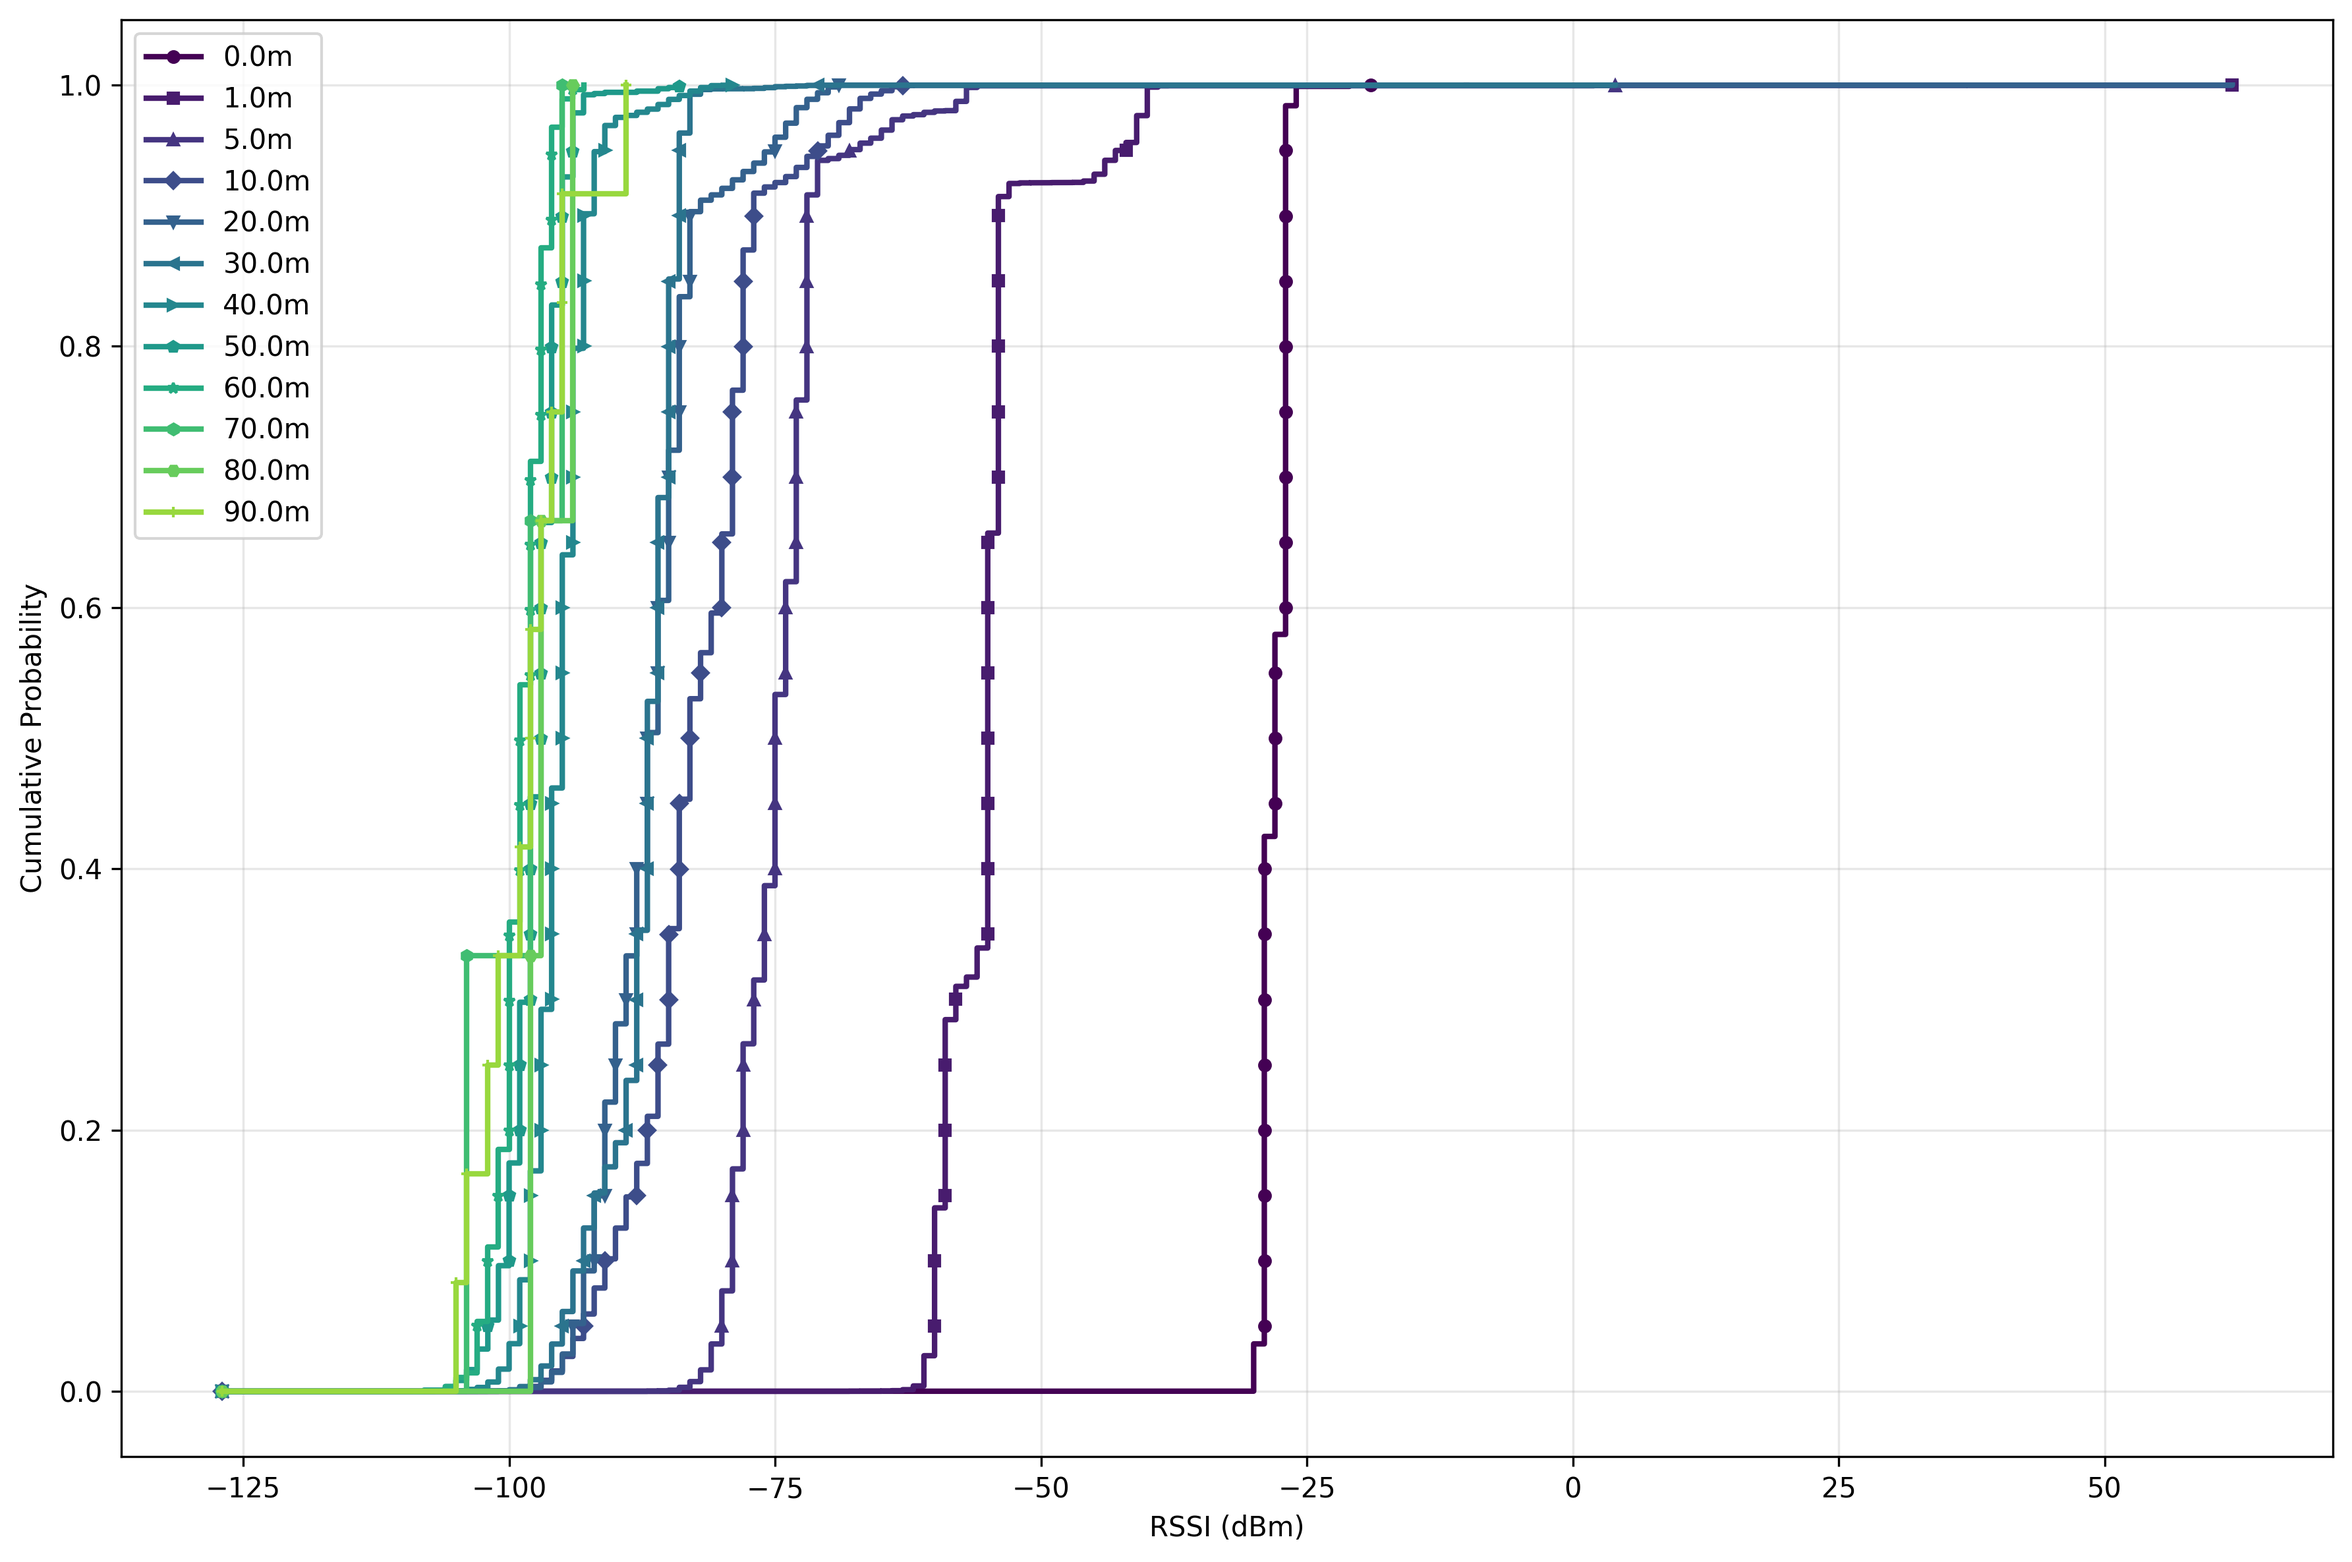
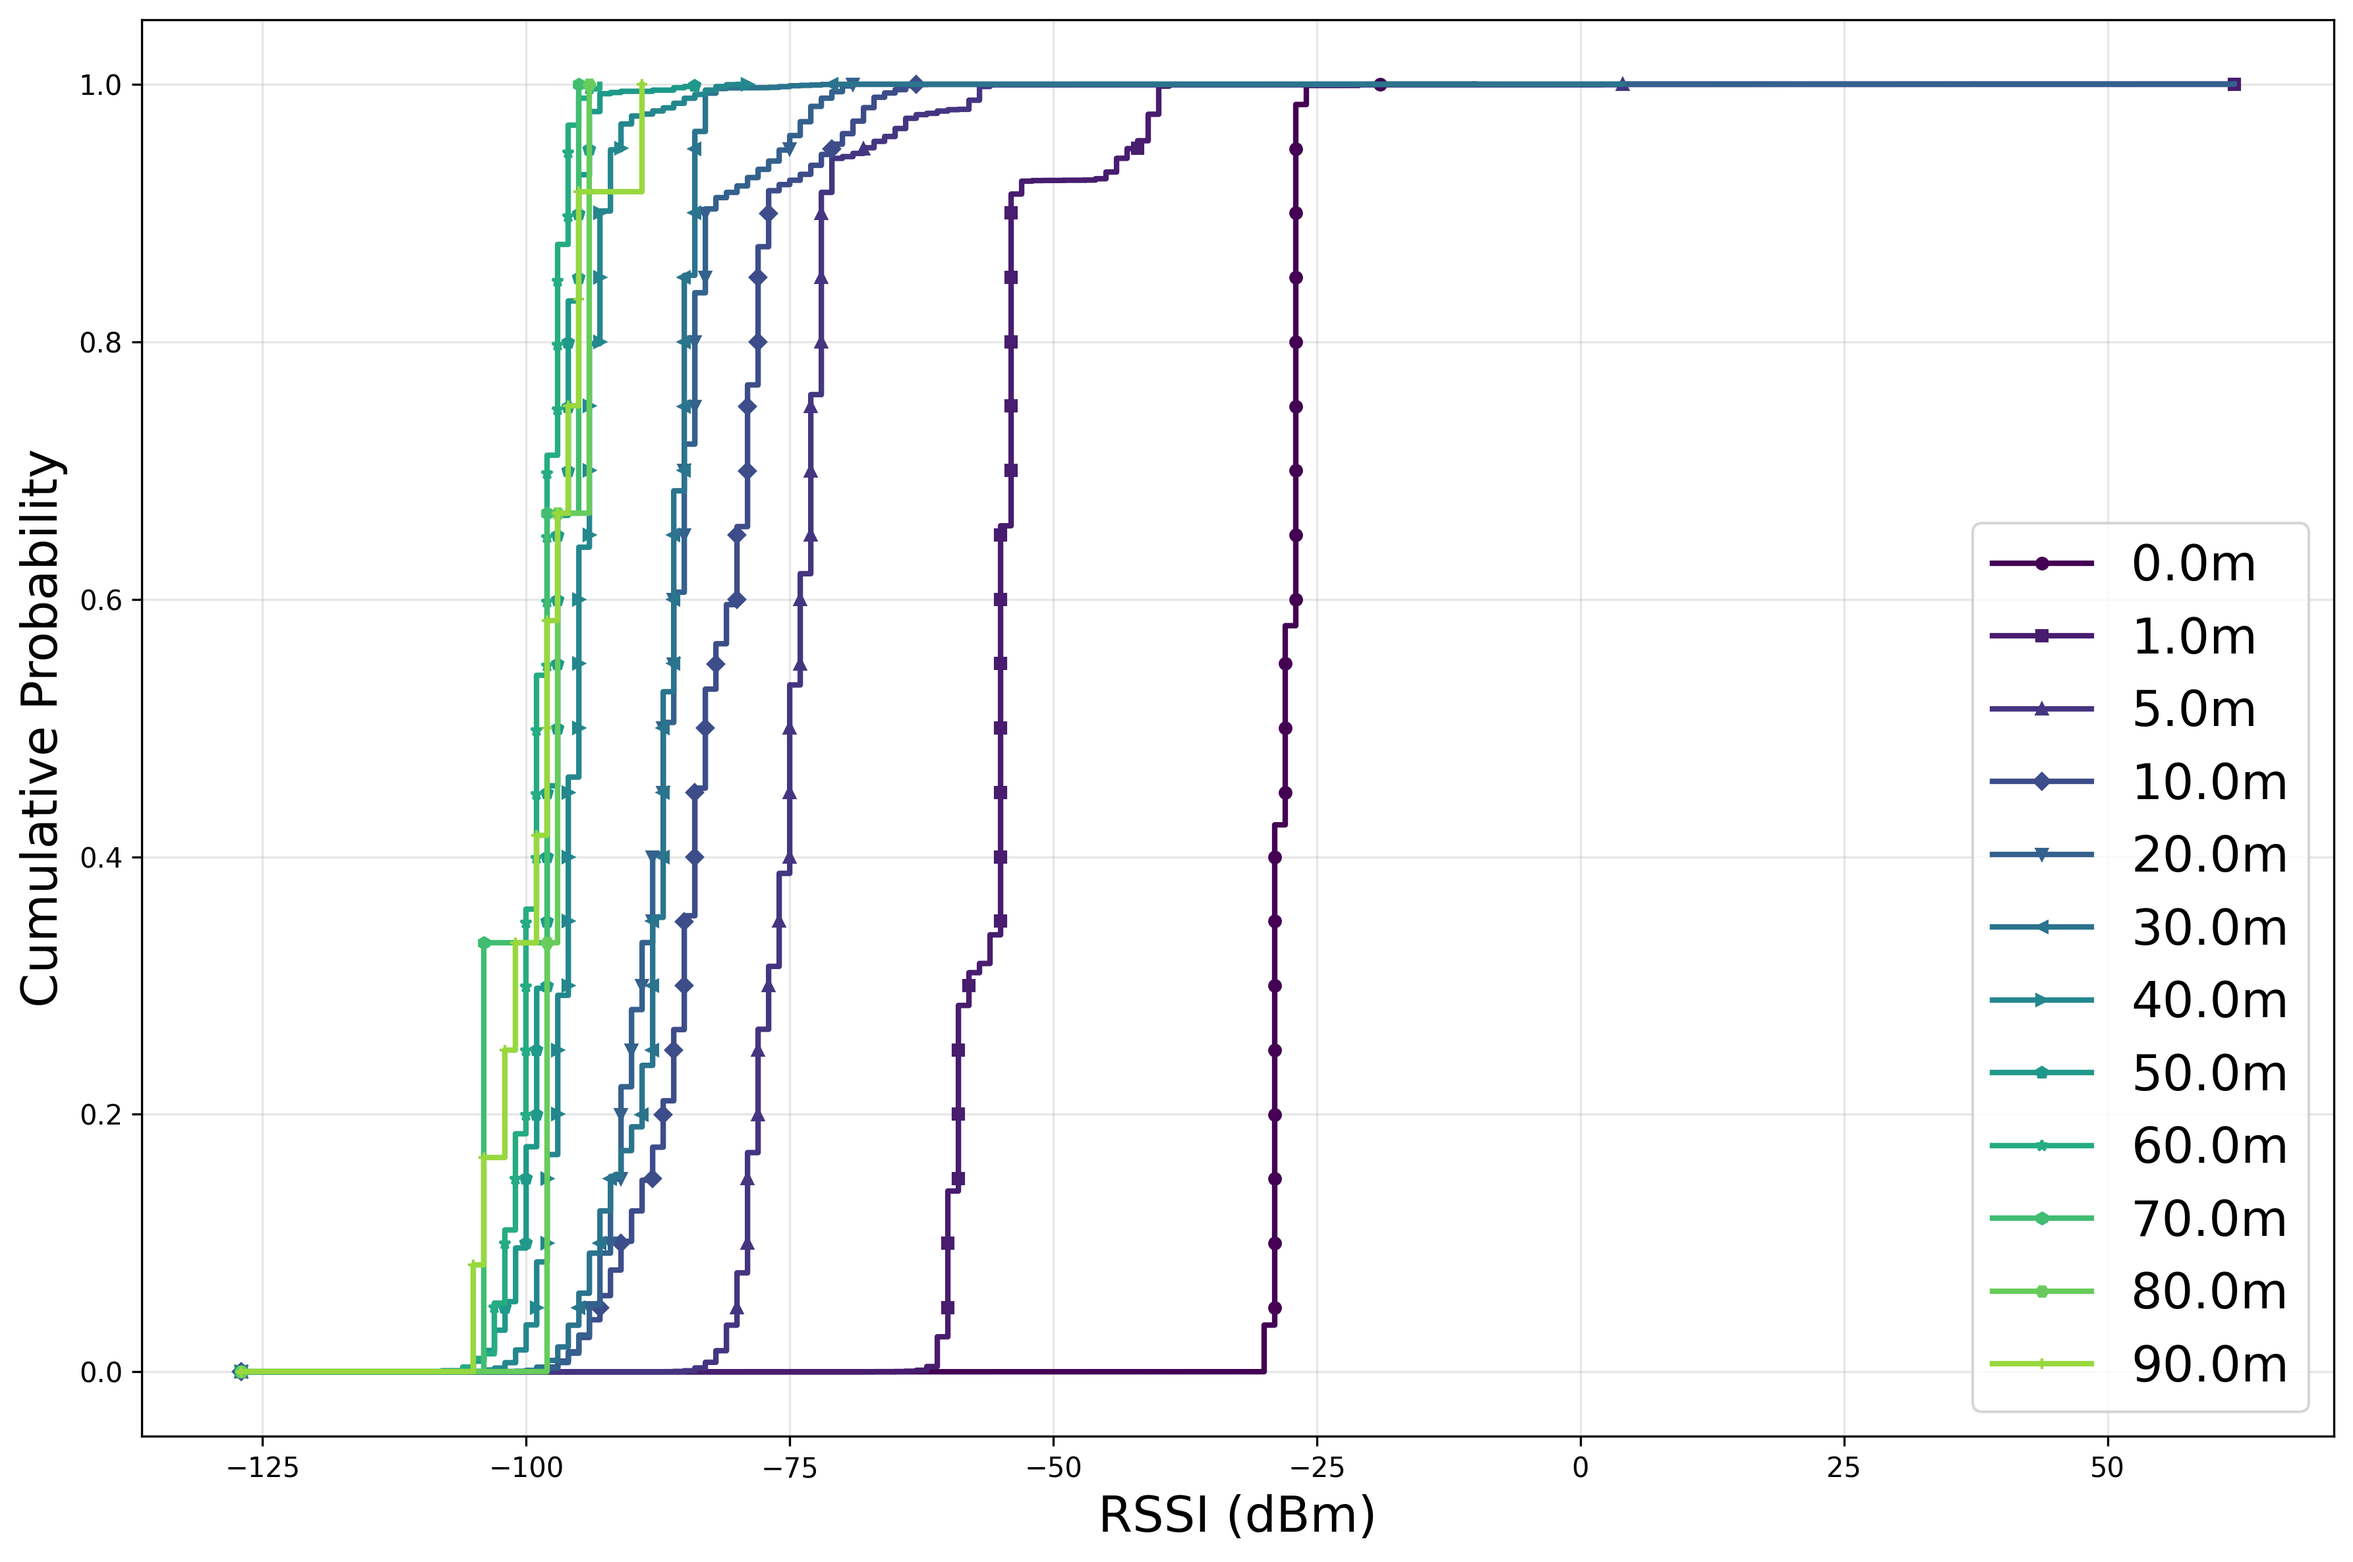
update rssi plotting script

diff --git a/pi-ble/rssi/plot.py b/pi-ble/rssi/plot.py
@@ -1,12 +1,11 @@
-# python plot.py --input-dir ./ranges --output-dir ./plots
 #!/usr/bin/env python3
+# python plot.py --input-dir ./ranges --output-dir ./plots
 from pathlib import Path
 from os import listdir, makedirs
 from typing import Optional
 import matplotlib.pyplot as plt
 import numpy as np
 from collections import defaultdict
-import time
 import re
 
 def parse_summary_file(filepath: Path) -> dict[int, tuple[float, float]]:
@@ -88,9 +87,10 @@ def plot_rssi_vs_distance(distance_rssi_data: dict[float, list[float]], output_d
     plt.legend()
     
     plt.tight_layout()
-    plt.savefig(f'{output_dir}/rssi_vs_distance.png', dpi=300, bbox_inches='tight')
+    fpath=f'{output_dir}/rssi_vs_distance.png'
+    plt.savefig(fpath, dpi=300, bbox_inches='tight')
     plt.close()
-    print(f"\nSaved RSSI vs distance plot to {output_dir}/rssi_vs_distance.png")
+    print(f"\nSaved RSSI vs distance plot to {fpath}")
 
 def plot_density(distance_rssi_data: dict[float, list[float]], output_dir: str, bin_size: int = 30, ranges_to_plot: Optional[list[float]]=None):
     """Plot probability density of RSSI values for each distance in separate subplots
@@ -183,14 +183,15 @@ def plot_cdf(distance_rssi_data: dict[float, list[float]], output_dir: str):
                     marker=markers[i % len(markers)], markersize=4, markevery=max(1, len(sorted_rssi)//20), 
                     linewidth=2, where='post')
     
-    plt.xlabel('RSSI (dBm)')
-    plt.ylabel('Cumulative Probability')
+    plt.xlabel('RSSI (dBm)', fontsize=18)
+    plt.ylabel('Cumulative Probability', fontsize=18)
     plt.grid(True, alpha=0.3)
-    plt.legend()
+    plt.legend(loc="lower right", fontsize=18)
     plt.tight_layout()
-    plt.savefig(f'{output_dir}/rssi_cdf.png', dpi=300, bbox_inches='tight')
+    fpath=f'{output_dir}/rssi_cdf.png'
+    plt.savefig(fpath, dpi=300, bbox_inches='tight')
     plt.close()
-    print(f"Saved CDF plot to {output_dir}/rssi_cdf.png")
+    print(f"Saved CDF plot to {fpath}")
 
 def plot_rssi_vs_time(distance_time_rssi_data: dict[float, dict[float, list[float]]], output_dir: str):
     """Plot RSSI vs time for each distance with one line per distance"""
@@ -526,23 +527,16 @@ def parse_arguments():
     parser.add_argument("--output-dir", type=str, default="./plots", help="Directory to save plots")
     return parser.parse_args()
 
-def main():
-    args = parse_arguments()
-    ranges: list[str] = list(listdir(args.input_dir))
-    makedirs(args.output_dir, exist_ok=True)
-
+def process_data(input_dir: Path, ranges: list[str]):
     distance_rssi_data: dict[float, list[float]] = {}
     distance_time_rssi_data: dict[float, dict[float, list[float]]] = defaultdict(lambda: defaultdict(list))
     distance_run_timestamps: dict[float, dict[int, list[float]]] = defaultdict(lambda: defaultdict(list)) # Map distance to run to timestamp differences
-
-    print(f"Processing data from summary files")
-    print("=" * 80)
 
     for range_dir in ranges:
         distance = float(range_dir)
         distance_rssi_data[distance] = []
 
-        path_to_range_directory = Path(args.input_dir) / range_dir
+        path_to_range_directory = input_dir / range_dir
         
         # Read summary file to get run timestamps
         summary_file = path_to_range_directory / "rssi_log.csv_summary.csv"
@@ -608,8 +602,14 @@ def main():
                 run_duration_s = run_duration_ms / 1000
                 print(f"Distance {distance:6.1f}m, Run {run_idx:2d}: kept {valid_samples_count:5d} samples, skipped {skipped_samples_count:5d} samples (outside {run_duration_s:.0f}s window)")
 
-    print("=" * 80)
-    print("Data processing complete.\n")
+    return distance_rssi_data, distance_time_rssi_data, distance_run_timestamps
+
+def main():
+    args = parse_arguments()
+    ranges: list[str] = list(listdir(args.input_dir))
+    makedirs(args.output_dir, exist_ok=True)
+
+    distance_rssi_data, distance_time_rssi_data, distance_run_timestamps = process_data(Path(args.input_dir), ranges)
 
     plot_rssi_vs_distance(distance_rssi_data, args.output_dir)
     plot_density(distance_rssi_data, args.output_dir, 30)
@@ -618,14 +618,6 @@ def main():
     plot_timestamp_diff_vs_time(distance_time_rssi_data, args.output_dir)
     plot_advertisements_per_distance(distance_rssi_data, distance_run_timestamps, args.output_dir)
     print_run_durations(distance_run_timestamps)
-    print("\nSummary Statistics:")
-    print("Distance (m)\tMean RSSI (dBm)\tStd Dev\tNum Samples")
-    print("-" * 60)
-    for distance in sorted(distance_rssi_data.keys()):
-        rssi_values = distance_rssi_data[distance]
-        if rssi_values:
-            print(f"{distance:8.1f}\t{np.mean(rssi_values):12.2f}\t{np.std(rssi_values):7.2f}\t{len(rssi_values):10d}")
-
     print_timestamp_diff_overview(distance_run_timestamps)
 
 if __name__ == "__main__":
